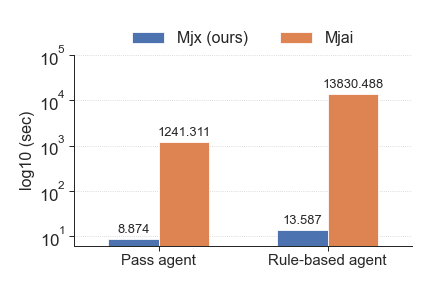
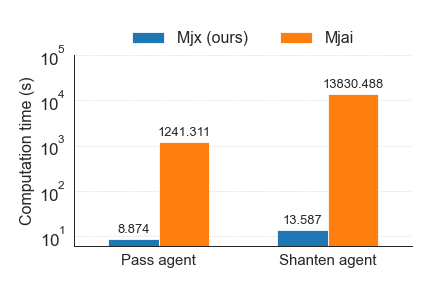
update plot.py

diff --git a/results/plot.py b/results/plot.py
@@ -6,11 +6,11 @@ import seaborn as sns
 # %%
 # sns.set()
 sns.set_style("ticks")
-# sns.set_style("white")
+sns.set_style("white")
 # sns.set_style("whitegrid")
 sns.set_context("paper", 1.9)
 
-labels = ['Pass agent', 'Rule-based agent']
+labels = ['Pass agent', 'Shanten agent']
 men_means = [8.874, 13.587]
 women_means = [1241.311, 13830.488]
 
@@ -29,7 +29,7 @@ top_side.set_visible(False)
 
 # Add some text for labels, title and custom x-axis tick labels, etc.
 ax.set_yscale('log')
-ax.set_ylabel('log10 (sec)', fontsize=16)
+ax.set_ylabel('Running time (s)', fontsize=16)
 ax.set_yticks([10, 100, 1000, 10000, 10**5])
 # ax.set_yticklabels([10, 100, 1000, 10000])
 # ax.set_yticklabels()
